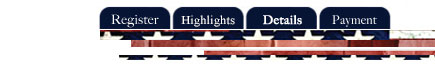
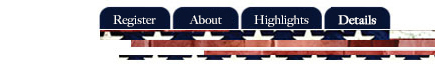
last round of post-deployment updates; removed registration form

Changed region(s): [[0.4184, 0.0909, 0.8667, 0.4545], [0.2391, 0.2121, 0.3885, 0.4242], [0.777, 0.8182, 0.8069, 0.8485]]

diff --git a/index.html b/index.html
@@ -24,8 +24,8 @@
                 <div id="phone_nav_details">
                     <A href="javascript:;" title="details">Details</A>
                 </div>
-                <div id="phone_nav_payment">
-                    <A href="javascript:;" title="payment">Payment</A>
+                <div id="phone_nav_about">
+                    <A href="javascript:;" title="about">About</A>
                 </div>
             </div>
             <div id="alt_about_area">&nbsp;</div>
@@ -41,15 +41,8 @@
                 <div id="register" class='pagecontent'>
                     <div id='form'>
                         <form method='get' action='/register/rsvp.cfm' >
-                            <div id="rsvp">Please RSVP:</div>
-                            <div class="alt_spacer">&nbsp;</div>
-                            <div class="formtitle">Full Name:</div>
-                            <div class='formfield'><input type='text' name='name'></div>
-                            <div class="formtitle">Title:</div>
-                            <div class='formfield'><input type='text' name='title'></div>
-                            <div class="formtitle">Email:</div>
-                            <div class='formfield'><input type='text' name='email'></div>
-                            <div id="register_btn">&nbsp;</div>
+                            <div id="rsvp">Please register at EventBrite</div>
+                            <P><A href="https://www.eventbrite.com/e/albert-gallatin-symposium-at-harvard-university-tickets-10492991821" target="_blank"><img src="assets/images/RegisterNow.jpg" border=0></A>
                         </form>
                     </div>
                     <div id="contact">
@@ -80,24 +73,9 @@
                         Ambassador Faith Whittlesey and Dr. h.c. Hansjörg Wyss
                     </div>
                 </div>
-                <div id="payment" style="display:none;" class='pagecontent'>
-                    <b>Symposium Fee: $ 200.00 per attendee</b>
-                    <br>Registration fee covers only part of the cost of the<br>
-                    Symposium.  Additional donations are appreciated.<br>
-                    <P><b>Payments from the U.S.:</b>
-                    <br>Kindly make checks payable to:<br>
-                    Albert Gallatin Symposium<br>
-                    Wolfgang Klietmann<br>
-                    P.O. Box 258<br>
-                    North Marshfield, MA 02059-0258, USA
-                    <P><b>Payments from abroad:</b><br>
-                    Wiring instructions:<br>
-                    Citizens Bank, 1 Citizens Drive, Riverside, R.I. 02915<br>
-                    Albert Gallatin Symposium<br>
-                    ABA: 011500120<br>
-                    Account#: 1324210769<br>
-                    Routing#: 211070175<br>
-                    SWIFT CODE: CTZI US 33
+                <div id="about" style="display:none;" class='pagecontent'>
+                    The concept for the symposium is to present a solid foundation on the historical facts of Albert Gallatin’s life, but demonstrate beyond his achievements the relevance of his actions for today’s and tomorrow’s political and cultural life. This is to demonstrate that his influence still exists today.  At the end of the full-day symposium we will have a music performance with players from The Aston Magna Festival performing a program for Thomas Jefferson’s Library at Monticello. He was a violinist himself and President when he asked Albert Gallatin to become his Secretary of the Treasury.
+                     <P>The purpose of this by invitation-only conference is to preserve the legacy and honor of Albert Gallatin, his fervent commitment to education and innovation, his legacy as the longest serving Treasurer, Founder of a bank, and cofounder of a university, and to strengthen the bond between two sister Republics, The United States of America and Switzerland. We want to organize the strong interest of Swiss and American supporters of this initiative to coordinate this plan to honor the life of Gallatin, which involves the diplomatic representations of Switzerland and the U.S., the Federal Government of Switzerland, Harvard University, Swissnex, and the Swiss-American Chamber of Commerce, Swiss and American corporations, citizens and sponsors of both countries for the execution of this project.
                 </div>
             </div>
             <div id="about_area">&nbsp;</div>
@@ -105,18 +83,18 @@
                 <img src="assets/images/WebsiteMenuRegister.jpg" id="map" usemap="#navmap" border="0">
                 <map name="navmap" id="navmap">
                 <area shape="rect" coords="33,6,106,29" title="register" nohref>
-                <area shape="rect" coords="106,6,180,29" title="highlights" nohref>
-                <area shape="rect" coords="181,6,252,27" title="details" nohref>
-                <area shape="rect" coords="254,4,327,29" title="payment" nohref>
+                <area shape="rect" coords="106,6,180,29" title="about" nohref>
+                <area shape="rect" coords="181,6,252,27" title="highlights" nohref>
+                <area shape="rect" coords="254,4,327,29" title="details" nohref>
                 </map>
             </div>
             <div id="alt_nav_area">
                 <img src="assets/images/820WebsiteMenuRegister.jpg" id="altmap" usemap="#altnavmap" border="0">
                 <map name="altnavmap">
                 <area shape="rect" coords="98,7,171,29" title="register" nohref>
-                <area shape="rect" coords="173,7,243,29" title="highlights" nohref>
-                <area shape="rect" coords="245,7,316,29" title="details" nohref>
-                <area shape="rect" coords="318,6,392,29" title="payment" nohref>
+                <area shape="rect" coords="173,7,243,29" title="about" nohref>
+                <area shape="rect" coords="245,7,316,29" title="highlights" nohref>
+                <area shape="rect" coords="318,6,392,29" title="details" nohref>
                 </map>
             </div>
             <div id="footer">

diff --git a/assets/css/jquery-ui-1.10.4.custom.css b/assets/css/jquery-ui-1.10.4.custom.css
@@ -1,7 +1,7 @@
 /*! jQuery UI - v1.10.4 - 2014-01-29
 * http://jqueryui.com
 * Includes: jquery.ui.core.css, jquery.ui.resizable.css, jquery.ui.selectable.css, jquery.ui.accordion.css, jquery.ui.autocomplete.css, jquery.ui.button.css, jquery.ui.datepicker.css, jquery.ui.dialog.css, jquery.ui.menu.css, jquery.ui.progressbar.css, jquery.ui.slider.css, jquery.ui.spinner.css, jquery.ui.tabs.css, jquery.ui.tooltip.css, jquery.ui.theme.css
-* To view and modify this theme, visit http://jqueryui.com/themeroller/?ffDefault=Arial%2Csans-serif&fwDefault=bold&fsDefault=1.1em&cornerRadius=6px&bgColorHeader=%23000033&bgTextureHeader=highlight_soft&bgImgOpacityHeader=15&borderColorHeader=%23e3a1a1&fcHeader=%23ffffff&iconColorHeader=%23ffffff&bgColorContent=%23ffffff&bgTextureContent=flat&bgImgOpacityContent=75&borderColorContent=%23eeeeee&fcContent=%23333333&iconColorContent=%23000033&bgColorDefault=%23eeeeee&bgTextureDefault=highlight_hard&bgImgOpacityDefault=100&borderColorDefault=%23d8dcdf&fcDefault=%23004276&iconColorDefault=%23000033&bgColorHover=%23f6f6f6&bgTextureHover=highlight_hard&bgImgOpacityHover=100&borderColorHover=%23cdd5da&fcHover=%23111111&iconColorHover=%23000033&bgColorActive=%23ffffff&bgTextureActive=flat&bgImgOpacityActive=65&borderColorActive=%23eeeeee&fcActive=%23000033&iconColorActive=%23000033&bgColorHighlight=%23fbf8ee&bgTextureHighlight=glass&bgImgOpacityHighlight=55&borderColorHighlight=%23fcd3a1&fcHighlight=%23444444&iconColorHighlight=%23004276&bgColorError=%23f3d8d8&bgTextureError=diagonals_thick&bgImgOpacityError=75&borderColorError=%23000033&fcError=%232e2e2e&iconColorError=%23000033&bgColorOverlay=%23a6a6a6&bgTextureOverlay=dots_small&bgImgOpacityOverlay=65&opacityOverlay=40&bgColorShadow=%23333333&bgTextureShadow=flat&bgImgOpacityShadow=0&opacityShadow=10&thicknessShadow=8px&offsetTopShadow=-8px&offsetLeftShadow=-8px&cornerRadiusShadow=8px
+* To view and modify this theme, visit http://jqueryui.com/themeroller/?ffDefault=Arial%2Csans-serif&fwDefault=bold&fsDefault=1.1em&cornerRadius=6px&bgColorHeader=%23000033&bgTextureHeader=highlight_soft&bgImgOpacityHeader=15&borderColorHeader=%23e3a1a1&fcHeader=%23ffffff&iconColorHeader=%23ffffff&bgColorContent=%23ffffff&bgTextureContent=flat&bgImgOpacityContent=75&borderColorContent=%23eeeeee&fcContent=%23333333&iconColorContent=%23000033&bgColorDefault=%23eeeeee&bgTextureDefault=highlight_hard&bgImgOpacityDefault=100&borderColorDefault=%23d8dcdf&fcDefault=%23000033&iconColorDefault=%23000033&bgColorHover=%23f6f6f6&bgTextureHover=highlight_hard&bgImgOpacityHover=100&borderColorHover=%23cdd5da&fcHover=%23111111&iconColorHover=%23000033&bgColorActive=%23ffffff&bgTextureActive=flat&bgImgOpacityActive=65&borderColorActive=%23eeeeee&fcActive=%23000033&iconColorActive=%23000033&bgColorHighlight=%23fbf8ee&bgTextureHighlight=glass&bgImgOpacityHighlight=55&borderColorHighlight=%23fcd3a1&fcHighlight=%23444444&iconColorHighlight=%23000033&bgColorError=%23f3d8d8&bgTextureError=diagonals_thick&bgImgOpacityError=75&borderColorError=%23000033&fcError=%232e2e2e&iconColorError=%23000033&bgColorOverlay=%23a6a6a6&bgTextureOverlay=dots_small&bgImgOpacityOverlay=65&opacityOverlay=40&bgColorShadow=%23333333&bgTextureShadow=flat&bgImgOpacityShadow=0&opacityShadow=10&thicknessShadow=8px&offsetTopShadow=-8px&offsetLeftShadow=-8px&cornerRadiusShadow=8px
 * Copyright 2014 jQuery Foundation and other contributors; Licensed MIT */
 
 /* Layout helpers
@@ -822,12 +822,12 @@ body .ui-tooltip {
 	border: 1px solid #d8dcdf;
 	background: #eeeeee url(images/ui-bg_highlight-hard_100_eeeeee_1x100.png) 50% 50% repeat-x;
 	font-weight: bold;
-	color: #004276;
+	color: #000033;
 }
 .ui-state-default a,
 .ui-state-default a:link,
 .ui-state-default a:visited {
-	color: #004276;
+	color: #000033;
 	text-decoration: none;
 }
 .ui-state-hover,
@@ -947,7 +947,7 @@ body .ui-tooltip {
 	background-image: url(images/ui-icons_000033_256x240.png);
 }
 .ui-state-highlight .ui-icon {
-	background-image: url(images/ui-icons_004276_256x240.png);
+	background-image: url(images/ui-icons_000033_256x240.png);
 }
 .ui-state-error .ui-icon,
 .ui-state-error-text .ui-icon {

diff --git a/assets/js/core.js b/assets/js/core.js
@@ -12,12 +12,14 @@ $().ready( function() {
         evt.preventDefault();
     })
 
+    $('.btn').button();
+
     $('#register_btn').click( function(evt) {
         if( $('input[name=name]').val() !== '' && $('input[name=email]').val() !== '' && $('input[name=title]').val() !== '' ) {
             $('#form form').ajaxSubmit({
                 success : function(r) {
                     $('<div/>')
-                        .html('Thank you for entering your information.<P><b>Please make payment to complete your registration.</b><P>Symposium Fee: $ 200.00 per attendee<P>Registration fee covers only part of the cost of the<br>Symposium.  Additional donations are appreciated.<P><b>Payments from the U.S.:</b><P>Kindly make checks payable to:<br>Albert Gallatin Symposium<br>Wolfgang Klietmann<br>P.O. Box 258<br>North Marshfield, MA 02059-0258, USA<P><b>Payments from abroad:</b><p>Wiring instructions:<br>Citizens Bank, 1 Citizens Drive, Riverside, R.I. 02915<br>Albert Gallatin Symposium<br>ABA: 011500120<br>Account#: 1324210769<br>Routing#: 211070175<br>SWIFT CODE: CTZI US 33')
+                        .html('Thank you for entering your information.<P><b>Please make about to complete your registration.</b><P>Symposium Fee: $ 200.00 per attendee<P>Registration fee covers only part of the cost of the<br>Symposium.  Additional donations are appreciated.<P><b>abouts from the U.S.:</b><P>Kindly make checks payable to:<br>Albert Gallatin Symposium<br>Wolfgang Klietmann<br>P.O. Box 258<br>North Marshfield, MA 02059-0258, USA<P><b>abouts from abroad:</b><p>Wiring instructions:<br>Citizens Bank, 1 Citizens Drive, Riverside, R.I. 02915<br>Albert Gallatin Symposium<br>ABA: 011500120<br>Account#: 1324210769<br>Routing#: 211070175<br>SWIFT CODE: CTZI US 33')
                         .dialog({
                             height:450,
                             width:330,

diff --git a/assets/css/common.css b/assets/css/common.css
@@ -107,11 +107,13 @@ area {
 }
 
 
-/*** PAYMENT ***/
-#payment {
+/*** about ***/
+#about {
     margin:164px 0 0 100px;
     float:left;
     padding-top:11px;
+    font-size: 11px;
+    width: 310px;
 }
 
 
@@ -131,6 +133,9 @@ area {
 #register #form #rsvp {
     font-weight:bold;
     margin-bottom:5px;
+}
+#register #form .btn {
+    font-size:24px;
 }
 #register #contact {
     width:310px;

diff --git a/assets/css/main.css b/assets/css/main.css
@@ -105,11 +105,13 @@ area {
 }
 
 
-/*** PAYMENT ***/
-#payment {
-    margin:164px 0 0 100px;
-    float:left;
-    padding-top:11px;
+/*** about ***/
+#about {
+    float: left;
+    font-size: 11px;
+    margin: 164px 0 0 100px;
+    padding-top: 11px;
+    width: 310px;
 }
 
 

diff --git a/assets/css/landscape_phone.css b/assets/css/landscape_phone.css
@@ -73,8 +73,8 @@ CONTENT
 }
 
 
-/*** PAYMENT ***/
-#payment {
+/*** about ***/
+#about {
     margin:20px 0 0 20px;
     width: 280px;
     padding-top: 0;

diff --git a/assets/css/portrait_phone.css b/assets/css/portrait_phone.css
@@ -73,8 +73,8 @@ CONTENT
 }
 
 
-/*** PAYMENT ***/
-#payment {
+/*** about ***/
+#about {
     margin:20px 0 0 20px;
     width: 280px;
     padding-top: 0;

diff --git a/assets/css/main_small.css b/assets/css/main_small.css
@@ -67,8 +67,8 @@ CONTENT
     background-image:url(../images/LessThan820Poster.jpg);
 }
 
-/*** PAYMENT ***/
-#payment {
+/*** about ***/
+#about {
 }
 
 

diff --git a/assets/css/landscape_tablet.css b/assets/css/landscape_tablet.css
@@ -50,8 +50,8 @@ area {
 }
 
 
-/*** PAYMENT ***/
-#payment {
+/*** about ***/
+#about {
 }
 
 
